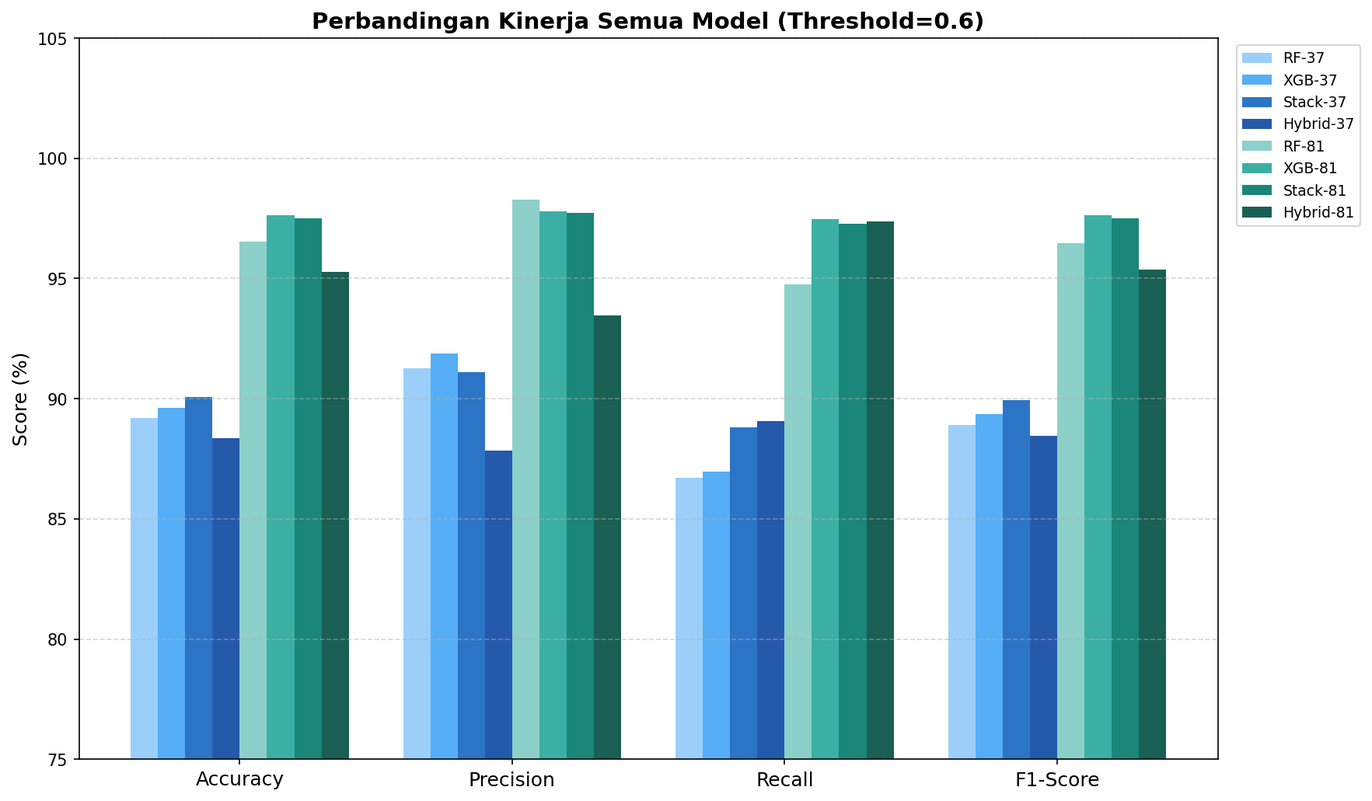
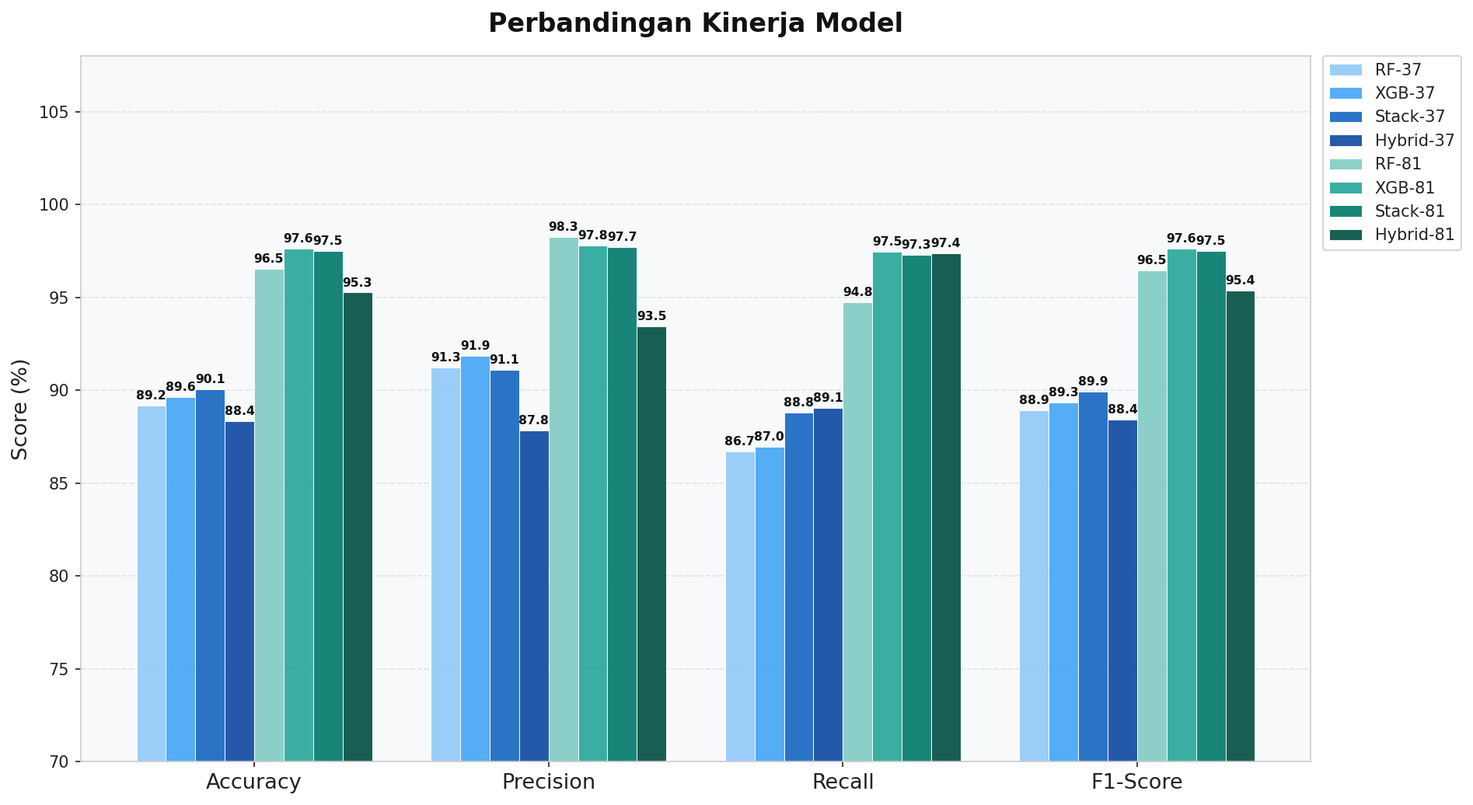
bar char

diff --git a/evaluate_performance.py b/evaluate_performance.py
@@ -11,12 +11,12 @@ Script evaluasi perbandingan kinerja model:
 
 Output:
   - Tabel metrik di terminal
-  - results/01_metric_comparison.png   → Bar chart Acc/Prec/Rec/F1/AUC
-  - results/02_roc_curves.png          → ROC Curve semua model
-  - results/03_pr_curves.png           → Precision-Recall Curve
-  - results/04_confusion_matrices.png  → Confusion Matrix 6 model
-  - results/05_radar_chart.png         → Radar Chart perbandingan
-  - results/performance_summary.csv    → Tabel ringkasan CSV
+  - results/01_metric_comparison.png   â†’ Bar chart Acc/Prec/Rec/F1/AUC
+  - results/02_roc_curves.png          â†’ ROC Curve semua model
+  - results/03_pr_curves.png           â†’ Precision-Recall Curve
+  - results/04_confusion_matrices.png  â†’ Confusion Matrix 6 model
+  - results/05_radar_chart.png         â†’ Radar Chart perbandingan
+  - results/performance_summary.csv    â†’ Tabel ringkasan CSV
 """
 
 import os
@@ -39,7 +39,7 @@ from sklearn.metrics import (
 from sklearn.model_selection import train_test_split
 from sklearn.linear_model import LogisticRegression
 
-# ── Konfigurasi ───────────────────────────────────────────────────────────────
+# â”€â”€ Konfigurasi â”€â”€â”€â”€â”€â”€â”€â”€â”€â”€â”€â”€â”€â”€â”€â”€â”€â”€â”€â”€â”€â”€â”€â”€â”€â”€â”€â”€â”€â”€â”€â”€â”€â”€â”€â”€â”€â”€â”€â”€â”€â”€â”€â”€â”€â”€â”€â”€â”€â”€â”€â”€â”€â”€â”€â”€â”€â”€â”€â”€â”€â”€â”€
 RANDOM_STATE = 12
 TEST_SIZE    = 0.2
 TARGET_COL   = "label"
@@ -48,7 +48,7 @@ DATA_PATH    = os.path.join(BASE_DIR, "DataFiles", "data_cleaning.csv")
 RESULTS_DIR  = os.path.join(BASE_DIR, "results")
 os.makedirs(RESULTS_DIR, exist_ok=True)
 
-# Warna per model — 2 keluarga warna bergradasi (terang → gelap)
+# Warna per model â€” 2 keluarga warna bergradasi (terang â†’ gelap)
 # Biru  : Mode 37-fitur (URL-based)   | Teal : Mode 81-fitur (Hybrid)
 COLORS = {
     "RF-37":       "#90CAF9",   # Biru muda      (Blue 200)
@@ -73,7 +73,7 @@ URL_FEATURES_37 = [
     "path_extension","nb_redirection",
 ]
 
-# ── Helper ────────────────────────────────────────────────────────────────────
+# â”€â”€ Helper â”€â”€â”€â”€â”€â”€â”€â”€â”€â”€â”€â”€â”€â”€â”€â”€â”€â”€â”€â”€â”€â”€â”€â”€â”€â”€â”€â”€â”€â”€â”€â”€â”€â”€â”€â”€â”€â”€â”€â”€â”€â”€â”€â”€â”€â”€â”€â”€â”€â”€â”€â”€â”€â”€â”€â”€â”€â”€â”€â”€â”€â”€â”€â”€â”€â”€â”€â”€
 def load_model(filename):
     path = os.path.join(BASE_DIR, filename)
     if not os.path.exists(path):
@@ -150,7 +150,7 @@ def evaluate_model(model, X, y, name):
         "pr_prec": pr_prec, "pr_rec": pr_rec,
     }
 
-# ── Rule-Based prefilter (vectorized dari fitur dataset) ─────────────────────
+# â”€â”€ Rule-Based prefilter (vectorized dari fitur dataset) â”€â”€â”€â”€â”€â”€â”€â”€â”€â”€â”€â”€â”€â”€â”€â”€â”€â”€â”€â”€â”€
 def rule_flag_from_df(X_df: pd.DataFrame) -> np.ndarray:
     """
     Terapkan aturan rule-based (sama dengan app.py rule_based_eval) secara
@@ -161,7 +161,7 @@ def rule_flag_from_df(X_df: pd.DataFrame) -> np.ndarray:
     def col(name, default=0):
         return X_df[name].fillna(default).values if name in X_df.columns else np.full(len(X_df), default)
 
-    # Very important (salah satu saja → Phishing)
+    # Very important (salah satu saja â†’ Phishing)
     vi = (
         (col("suspicious_tld")   == 1) |
         (col("nb_at")            >= 1) |
@@ -169,7 +169,7 @@ def rule_flag_from_df(X_df: pd.DataFrame) -> np.ndarray:
         (col("nb_underscore")    >  3)
     )
 
-    # Important (skor ×2)
+    # Important (skor Ã—2)
     imp = (
         (col("ratio_digits_url") >  0.3).astype(int) +
         (col("nb_subdomains")    >  3  ).astype(int) +
@@ -181,7 +181,7 @@ def rule_flag_from_df(X_df: pd.DataFrame) -> np.ndarray:
         (col("random_domain")    == 1  ).astype(int)
     )
 
-    # Less important (skor ×1)
+    # Less important (skor Ã—1)
     less = (
         (col("length_hostname")  > 30).astype(int) +
         (col("nb_dollar")        >= 1).astype(int) +
@@ -227,11 +227,11 @@ def evaluate_from_arrays(pred: np.ndarray, proba: np.ndarray,
     }
 
 
-# ── Evaluasi semua model ───────────────────────────────────────────────────────
+# â”€â”€ Evaluasi semua model â”€â”€â”€â”€â”€â”€â”€â”€â”€â”€â”€â”€â”€â”€â”€â”€â”€â”€â”€â”€â”€â”€â”€â”€â”€â”€â”€â”€â”€â”€â”€â”€â”€â”€â”€â”€â”€â”€â”€â”€â”€â”€â”€â”€â”€â”€â”€â”€â”€â”€â”€â”€â”€â”€â”€
 def run_evaluation():
     results = {}
 
-    # ── Mode 37 fitur ──
+    # â”€â”€ Mode 37 fitur â”€â”€
     print("\n=== Mode 37 Fitur (URL-based) ===")
     X37, y37 = prep_data("37")
     cols37   = load_cols("feature_columns_37.txt")
@@ -259,7 +259,7 @@ def run_evaluation():
     hybrid_pred37 = (hybrid_p37 >= 0.6).astype(int)
     results["Hybrid-37"] = evaluate_from_arrays(hybrid_pred37, hybrid_p37, y37, "Hybrid-37")
 
-    # ── Mode 81 fitur ──
+    # â”€â”€ Mode 81 fitur â”€â”€
     print("\n=== Mode 81 Fitur (Hybrid) ===")
     X81, y81 = prep_data("81")
     cols81   = load_cols("feature_columns_81.txt")
@@ -288,11 +288,11 @@ def run_evaluation():
 
     return results
 
-# ══════════════════════════════════════════════════════════════════════════════
-# PLOT 1: Bar Chart Metrik Perbandingan
-# ══════════════════════════════════════════════════════════════════════════════
+# â•â•â•â•â•â•â•â•â•â•â•â•â•â•â•â•â•â•â•â•â•â•â•â•â•â•â•â•â•â•â•â•â•â•â•â•â•â•â•â•â•â•â•â•â•â•â•â•â•â•â•â•â•â•â•â•â•â•â•â•â•â•â•â•â•â•â•â•â•â•â•â•â•â•â•â•â•â•
+# PLOT 1: Bar Chart Metrik Perbandingan (semua model)
+# â•â•â•â•â•â•â•â•â•â•â•â•â•â•â•â•â•â•â•â•â•â•â•â•â•â•â•â•â•â•â•â•â•â•â•â•â•â•â•â•â•â•â•â•â•â•â•â•â•â•â•â•â•â•â•â•â•â•â•â•â•â•â•â•â•â•â•â•â•â•â•â•â•â•â•â•â•â•
 def plot_metric_comparison(results):
-    # AUC tidak ditampilkan di bar chart — hanya di ROC curve
+    # AUC tidak ditampilkan di bar chart â€” hanya di ROC curve
     metrics  = ["acc", "prec", "rec", "f1"]
     mlabels  = ["Accuracy", "Precision", "Recall", "F1-Score"]
     n_metrics = len(metrics)
@@ -311,21 +311,21 @@ def plot_metric_comparison(results):
         bars = ax.bar(x + offset, vals, width, label=mkey,
                       color=COLORS[mkey], alpha=0.9, edgecolor="white", linewidth=0.5)
         for bar, v in zip(bars, vals):
-            ax.text(bar.get_x() + bar.get_width()/2, bar.get_height() + 0.3,
+            ax.text(bar.get_x() + bar.get_width()/2, bar.get_height() + 0.2,
                     f"{v:.1f}", ha="center", va="bottom",
-                    fontsize=6.5, color="#222", fontweight="bold")
+                    fontsize=7.5, color="#111", fontweight="bold",
+                    rotation=0)
 
     ax.set_xticks(x)
     ax.set_xticklabels(mlabels, fontsize=13, color="#222")
     ax.set_ylabel("Score (%)", fontsize=13, color="#222")
     ax.set_title("Perbandingan Kinerja Model", fontsize=16,
                  fontweight="bold", color="#111", pad=15)
-    ax.set_ylim(75, 103)
+    ax.set_ylim(70, 108)
     ax.tick_params(colors="#222")
     ax.spines[:].set_color("#ccc")
     ax.yaxis.grid(True, color="#ddd", linestyle="--", alpha=0.8)
     ax.set_axisbelow(True)
-    # Legend di luar grafik sisi kanan agar tidak menutupi bar
     legend = ax.legend(loc="upper left", bbox_to_anchor=(1.01, 1.0),
                        fontsize=10, facecolor="white", edgecolor="#ccc",
                        labelcolor="#222", borderaxespad=0)
@@ -333,11 +333,67 @@ def plot_metric_comparison(results):
     out = os.path.join(RESULTS_DIR, "01_metric_comparison.png")
     fig.savefig(out, dpi=150, bbox_inches="tight", facecolor=fig.get_facecolor())
     plt.close()
-    print(f"  ✅ Saved: {out}")
+    print(f"  âœ… Saved: {out}")
 
-# ══════════════════════════════════════════════════════════════════════════════
+
+# â•â•â•â•â•â•â•â•â•â•â•â•â•â•â•â•â•â•â•â•â•â•â•â•â•â•â•â•â•â•â•â•â•â•â•â•â•â•â•â•â•â•â•â•â•â•â•â•â•â•â•â•â•â•â•â•â•â•â•â•â•â•â•â•â•â•â•â•â•â•â•â•â•â•â•â•â•â•
+# PLOT 1b & 1c: Bar Chart Metrik per Grup Fitur (37 / 81)
+# â•â•â•â•â•â•â•â•â•â•â•â•â•â•â•â•â•â•â•â•â•â•â•â•â•â•â•â•â•â•â•â•â•â•â•â•â•â•â•â•â•â•â•â•â•â•â•â•â•â•â•â•â•â•â•â•â•â•â•â•â•â•â•â•â•â•â•â•â•â•â•â•â•â•â•â•â•â•
+def plot_metric_comparison_group(results, group_keys, title, filename):
+    """Bar chart metrik untuk subset model tertentu (37 atau 81 fitur)."""
+    metrics   = ["acc", "prec", "rec", "f1"]
+    mlabels   = ["Accuracy", "Precision", "Recall", "F1-Score"]
+    n_metrics = len(metrics)
+    n_models  = len(group_keys)
+    x     = np.arange(n_metrics)
+    width = 0.18   # bar lebih lebar karena hanya 4 model
+
+    fig, ax = plt.subplots(figsize=(13, 7))
+    fig.patch.set_facecolor("white")
+    ax.set_facecolor("#f8f9fa")
+
+    for i, mkey in enumerate(group_keys):
+        r    = results[mkey]
+        vals = [r[m] * 100 for m in metrics]
+        offset = (i - n_models / 2 + 0.5) * width
+        bars = ax.bar(x + offset, vals, width, label=mkey,
+                      color=COLORS[mkey], alpha=0.9,
+                      edgecolor="white", linewidth=0.6)
+        for bar, v in zip(bars, vals):
+            ax.text(
+                bar.get_x() + bar.get_width() / 2,
+                bar.get_height() + 0.2,
+                f"{v:.1f}",
+                ha="center", va="bottom",
+                fontsize=10, color="#111", fontweight="bold",
+                rotation=0
+            )
+
+    ax.set_xticks(x)
+    ax.set_xticklabels(mlabels, fontsize=13, color="#222")
+    ax.set_ylabel("Score (%)", fontsize=13, color="#222")
+    ax.set_title(title, fontsize=16, fontweight="bold", color="#111", pad=15)
+
+    # Batas atas Y sedikit di atas nilai max agar label tidak terpotong
+    all_vals = [results[k][m] * 100 for k in group_keys for m in metrics]
+    ax.set_ylim(max(0, min(all_vals) - 5), max(all_vals) + 4)
+
+    ax.tick_params(colors="#222")
+    ax.spines[:].set_color("#ccc")
+    ax.yaxis.grid(True, color="#ddd", linestyle="--", alpha=0.8)
+    ax.set_axisbelow(True)
+    ax.legend(loc="lower right", fontsize=11,
+              facecolor="white", edgecolor="#ccc", labelcolor="#222")
+
+    plt.tight_layout()
+    out = os.path.join(RESULTS_DIR, filename)
+    fig.savefig(out, dpi=150, bbox_inches="tight", facecolor=fig.get_facecolor())
+    plt.close()
+    print(f"  âœ… Saved: {out}")
+
+# â•â•â•â•â•â•â•â•â•â•â•â•â•â•â•â•â•â•â•â•â•â•â•â•â•â•â•â•â•â•â•â•â•â•â•â•â•â•â•â•â•â•â•â•â•â•â•â•â•â•â•â•â•â•â•â•â•â•â•â•â•â•â•â•â•â•â•â•â•â•â•â•â•â•â•â•â•â•
 # PLOT 2: ROC Curves
-# ══════════════════════════════════════════════════════════════════════════════
+# â•â•â•â•â•â•â•â•â•â•â•â•â•â•â•â•â•â•â•â•â•â•â•â•â•â•â•â•â•â•â•â•â•â•â•â•â•â•â•â•â•â•â•â•â•â•â•â•â•â•â•â•â•â•â•â•â•â•â•â•â•â•â•â•â•â•â•â•â•â•â•â•â•â•â•â•â•â•
 def plot_roc_curves(results):
     fig, axes = plt.subplots(1, 2, figsize=(16, 7))
     fig.patch.set_facecolor("white")
@@ -357,7 +413,7 @@ def plot_roc_curves(results):
                         label=f"{k}  (AUC={r['auc']:.4f})")
         ax.set_xlabel("False Positive Rate", color="#222", fontsize=11)
         ax.set_ylabel("True Positive Rate", color="#222", fontsize=11)
-        ax.set_title(f"ROC Curve – {title}", color="#111", fontsize=13, fontweight="bold")
+        ax.set_title(f"ROC Curve â€“ {title}", color="#111", fontsize=13, fontweight="bold")
         ax.tick_params(colors="#222")
         ax.spines[:].set_color("#ccc")
         ax.grid(color="#ddd", linestyle="--", alpha=0.8)
@@ -369,11 +425,11 @@ def plot_roc_curves(results):
     out = os.path.join(RESULTS_DIR, "02_roc_curves.png")
     fig.savefig(out, dpi=150, bbox_inches="tight", facecolor=fig.get_facecolor())
     plt.close()
-    print(f"  ✅ Saved: {out}")
+    print(f"  âœ… Saved: {out}")
 
-# ══════════════════════════════════════════════════════════════════════════════
+# â•â•â•â•â•â•â•â•â•â•â•â•â•â•â•â•â•â•â•â•â•â•â•â•â•â•â•â•â•â•â•â•â•â•â•â•â•â•â•â•â•â•â•â•â•â•â•â•â•â•â•â•â•â•â•â•â•â•â•â•â•â•â•â•â•â•â•â•â•â•â•â•â•â•â•â•â•â•
 # PLOT 3: Precision-Recall Curves
-# ══════════════════════════════════════════════════════════════════════════════
+# â•â•â•â•â•â•â•â•â•â•â•â•â•â•â•â•â•â•â•â•â•â•â•â•â•â•â•â•â•â•â•â•â•â•â•â•â•â•â•â•â•â•â•â•â•â•â•â•â•â•â•â•â•â•â•â•â•â•â•â•â•â•â•â•â•â•â•â•â•â•â•â•â•â•â•â•â•â•
 def plot_pr_curves(results):
     fig, axes = plt.subplots(1, 2, figsize=(16, 7))
     fig.patch.set_facecolor("white")
@@ -392,7 +448,7 @@ def plot_pr_curves(results):
                         label=f"{k}  (AP={r['ap']:.4f})")
         ax.set_xlabel("Recall", color="#222", fontsize=11)
         ax.set_ylabel("Precision", color="#222", fontsize=11)
-        ax.set_title(f"Precision-Recall Curve – {title}",
+        ax.set_title(f"Precision-Recall Curve â€“ {title}",
                      color="#111", fontsize=13, fontweight="bold")
         ax.tick_params(colors="#222")
         ax.spines[:].set_color("#ccc")
@@ -405,11 +461,11 @@ def plot_pr_curves(results):
     out = os.path.join(RESULTS_DIR, "03_pr_curves.png")
     fig.savefig(out, dpi=150, bbox_inches="tight", facecolor=fig.get_facecolor())
     plt.close()
-    print(f"  ✅ Saved: {out}")
+    print(f"  âœ… Saved: {out}")
 
-# ══════════════════════════════════════════════════════════════════════════════
+# â•â•â•â•â•â•â•â•â•â•â•â•â•â•â•â•â•â•â•â•â•â•â•â•â•â•â•â•â•â•â•â•â•â•â•â•â•â•â•â•â•â•â•â•â•â•â•â•â•â•â•â•â•â•â•â•â•â•â•â•â•â•â•â•â•â•â•â•â•â•â•â•â•â•â•â•â•â•
 # PLOT 4: Confusion Matrices (6 model)
-# ══════════════════════════════════════════════════════════════════════════════
+# â•â•â•â•â•â•â•â•â•â•â•â•â•â•â•â•â•â•â•â•â•â•â•â•â•â•â•â•â•â•â•â•â•â•â•â•â•â•â•â•â•â•â•â•â•â•â•â•â•â•â•â•â•â•â•â•â•â•â•â•â•â•â•â•â•â•â•â•â•â•â•â•â•â•â•â•â•â•
 def plot_confusion_matrices(results):
     fig, axes = plt.subplots(2, 4, figsize=(24, 12))
     fig.patch.set_facecolor("white")
@@ -456,11 +512,11 @@ def plot_confusion_matrices(results):
     out = os.path.join(RESULTS_DIR, "04_confusion_matrices.png")
     fig.savefig(out, dpi=150, bbox_inches="tight", facecolor=fig.get_facecolor())
     plt.close()
-    print(f"  ✅ Saved: {out}")
+    print(f"  âœ… Saved: {out}")
 
-# ══════════════════════════════════════════════════════════════════════════════
+# â•â•â•â•â•â•â•â•â•â•â•â•â•â•â•â•â•â•â•â•â•â•â•â•â•â•â•â•â•â•â•â•â•â•â•â•â•â•â•â•â•â•â•â•â•â•â•â•â•â•â•â•â•â•â•â•â•â•â•â•â•â•â•â•â•â•â•â•â•â•â•â•â•â•â•â•â•â•
 # PLOT 5: Radar Chart
-# ══════════════════════════════════════════════════════════════════════════════
+# â•â•â•â•â•â•â•â•â•â•â•â•â•â•â•â•â•â•â•â•â•â•â•â•â•â•â•â•â•â•â•â•â•â•â•â•â•â•â•â•â•â•â•â•â•â•â•â•â•â•â•â•â•â•â•â•â•â•â•â•â•â•â•â•â•â•â•â•â•â•â•â•â•â•â•â•â•â•
 def plot_radar_chart(results):
     metrics  = ["acc", "prec", "rec", "f1", "auc"]
     mlabels  = ["Accuracy", "Precision", "Recall", "F1-Score", "AUC-ROC"]
@@ -495,7 +551,7 @@ def plot_radar_chart(results):
         ax.set_yticklabels(["80%", "85%", "90%", "95%", "100%"],
                            color="#666", fontsize=8)
         ax.tick_params(colors="#222")
-        ax.set_title(f"Radar Chart – {title}", color="#111",
+        ax.set_title(f"Radar Chart â€“ {title}", color="#111",
                      fontsize=13, fontweight="bold", pad=20)
         ax.legend(loc="upper right", bbox_to_anchor=(1.35, 1.15),
                   facecolor="white", edgecolor="#ccc",
@@ -507,11 +563,11 @@ def plot_radar_chart(results):
     out = os.path.join(RESULTS_DIR, "05_radar_chart.png")
     fig.savefig(out, dpi=150, bbox_inches="tight", facecolor=fig.get_facecolor())
     plt.close()
-    print(f"  ✅ Saved: {out}")
+    print(f"  âœ… Saved: {out}")
 
-# ══════════════════════════════════════════════════════════════════════════════
+# â•â•â•â•â•â•â•â•â•â•â•â•â•â•â•â•â•â•â•â•â•â•â•â•â•â•â•â•â•â•â•â•â•â•â•â•â•â•â•â•â•â•â•â•â•â•â•â•â•â•â•â•â•â•â•â•â•â•â•â•â•â•â•â•â•â•â•â•â•â•â•â•â•â•â•â•â•â•
 # PLOT 6: Summary Heatmap Table
-# ══════════════════════════════════════════════════════════════════════════════
+# â•â•â•â•â•â•â•â•â•â•â•â•â•â•â•â•â•â•â•â•â•â•â•â•â•â•â•â•â•â•â•â•â•â•â•â•â•â•â•â•â•â•â•â•â•â•â•â•â•â•â•â•â•â•â•â•â•â•â•â•â•â•â•â•â•â•â•â•â•â•â•â•â•â•â•â•â•â•
 def plot_summary_table(results):
     metrics = ["acc", "prec", "rec", "f1", "auc"]
     mlabels = ["Accuracy", "Precision", "Recall", "F1-Score", "AUC-ROC"]
@@ -549,12 +605,12 @@ def plot_summary_table(results):
     out = os.path.join(RESULTS_DIR, "06_summary_heatmap.png")
     fig.savefig(out, dpi=150, bbox_inches="tight", facecolor=fig.get_facecolor())
     plt.close()
-    print(f"  ✅ Saved: {out}")
+    print(f"  âœ… Saved: {out}")
 
 
-# ══════════════════════════════════════════════════════════════════════════════
+# â•â•â•â•â•â•â•â•â•â•â•â•â•â•â•â•â•â•â•â•â•â•â•â•â•â•â•â•â•â•â•â•â•â•â•â•â•â•â•â•â•â•â•â•â•â•â•â•â•â•â•â•â•â•â•â•â•â•â•â•â•â•â•â•â•â•â•â•â•â•â•â•â•â•â•â•â•â•
 # PLOT 7: AUC Bar Chart Tersendiri
-# ══════════════════════════════════════════════════════════════════════════════
+# â•â•â•â•â•â•â•â•â•â•â•â•â•â•â•â•â•â•â•â•â•â•â•â•â•â•â•â•â•â•â•â•â•â•â•â•â•â•â•â•â•â•â•â•â•â•â•â•â•â•â•â•â•â•â•â•â•â•â•â•â•â•â•â•â•â•â•â•â•â•â•â•â•â•â•â•â•â•
 def plot_auc_comparison(results):
     """
     Grafik batang horizontal khusus AUC-ROC, diurutkan dari tertinggi,
@@ -607,35 +663,52 @@ def plot_auc_comparison(results):
     plt.close()
     print(f"  Saved: {out}")
 
-# ── Main ───────────────────────────────────────────────────────────────────────
+# â”€â”€ Main â”€â”€â”€â”€â”€â”€â”€â”€â”€â”€â”€â”€â”€â”€â”€â”€â”€â”€â”€â”€â”€â”€â”€â”€â”€â”€â”€â”€â”€â”€â”€â”€â”€â”€â”€â”€â”€â”€â”€â”€â”€â”€â”€â”€â”€â”€â”€â”€â”€â”€â”€â”€â”€â”€â”€â”€â”€â”€â”€â”€â”€â”€â”€â”€â”€â”€â”€â”€â”€â”€â”€
 if __name__ == "__main__":
     print("\n" + "="*60)
     print("  EVALUASI PERBANDINGAN KINERJA MODEL PHISHING DETECTION")
     print("="*60)
 
-    print("\n[1/7] Loading & evaluating models...")
+    print("\n[1/9] Loading & evaluating models...")
     results = run_evaluation()
 
-    print("\n[2/7] Plotting bar chart metrik (Acc/Prec/Rec/F1)...")
+    print("\n[2/9] Plotting bar chart metrik gabungan (Acc/Prec/Rec/F1)...")
     plot_metric_comparison(results)
 
-    print("\n[3/7] Plotting ROC curves...")
+    print("\n[3/9] Plotting bar chart metrik 37 fitur URL...")
+    plot_metric_comparison_group(
+        results,
+        group_keys=["RF-37", "XGB-37", "Stack-37", "Hybrid-37"],
+        title="Perbandingan Kinerja Model â€“ 37 Fitur URL",
+        filename="01b_metric_comparison_37.png",
+    )
+
+    print("\n[4/9] Plotting bar chart metrik 81 fitur Hybrid...")
+    plot_metric_comparison_group(
+        results,
+        group_keys=["RF-81", "XGB-81", "Stack-81", "Hybrid-81"],
+        title="Perbandingan Kinerja Model â€“ 81 Fitur Hybrid",
+        filename="01c_metric_comparison_81.png",
+    )
+
+    print("\n[5/9] Plotting ROC curves...")
     plot_roc_curves(results)
 
-    print("\n[4/7] Plotting Precision-Recall curves...")
+    print("\n[6/9] Plotting Precision-Recall curves...")
     plot_pr_curves(results)
 
-    print("\n[5/7] Plotting confusion matrices...")
+    print("\n[7/9] Plotting confusion matrices...")
     plot_confusion_matrices(results)
 
-    print("\n[6/7] Plotting radar chart...")
+    print("\n[8/9] Plotting radar chart...")
     plot_radar_chart(results)
 
-    print("\n[7/7] Plotting summary heatmap & AUC comparison...")
+    print("\n[9/9] Plotting summary heatmap & AUC comparison...")
     plot_summary_table(results)
     plot_auc_comparison(results)
 
 
     print(f"\nSemua grafik tersimpan di folder: {RESULTS_DIR}")
-    print("   7 file PNG tersedia di folder results/\n")
+    print("   9 file PNG tersedia di folder results/\n")
+
 
